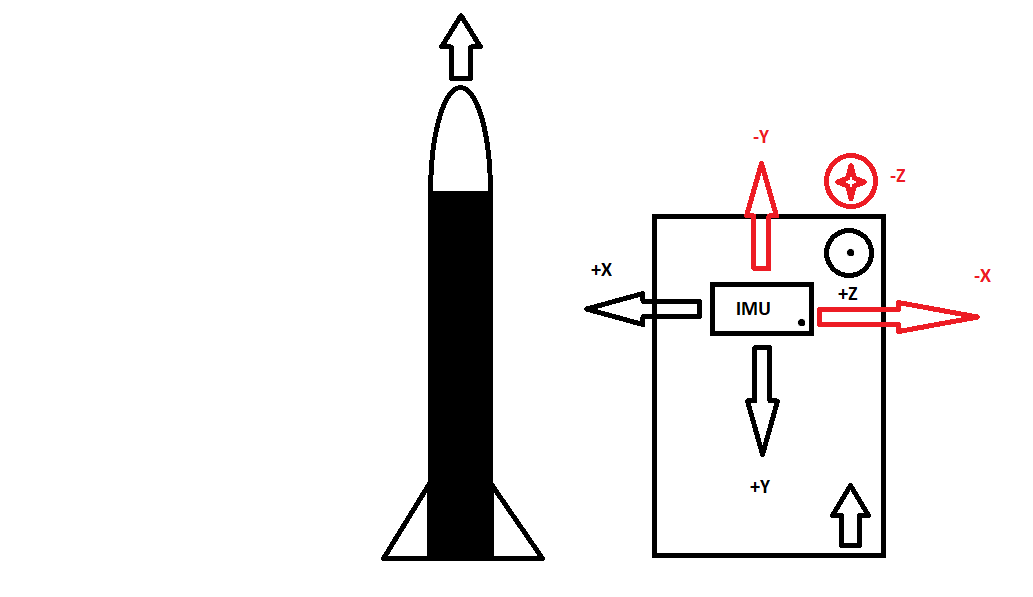
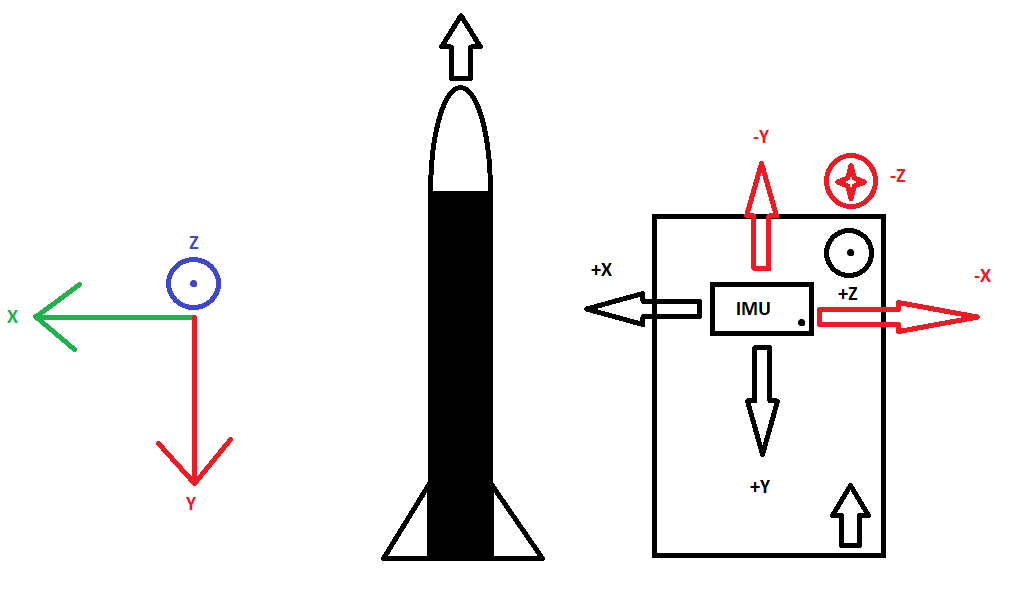
feat: ground abort handler

Changed region(s): [[0.0, 0.4221, 0.2478, 0.8141], [0.062, 0.5729, 0.0929, 0.603]]

diff --git a/Core/Inc/States/StateHandlers.h b/Core/Inc/States/StateHandlers.h
@@ -12,6 +12,7 @@ void ActiveBurnoutStateEntry(SystemContext_t *Context);
 void ApogeeStateEntry(SystemContext_t *Context);
 void ParachuteStateEntry(SystemContext_t *Context);
 void LandedStateEntry(SystemContext_t *Context);
+void GroundAbortStateEntry(SystemContext_t *Context);
 
 SystemState_t IdleStateHandler(SystemContext_t *Context, FlightData_t FlightData);
 SystemState_t CalibrationStateHandler(SystemContext_t *Context, FlightData_t FlightData);
@@ -22,5 +23,6 @@ SystemState_t ActiveBurnoutStateHandler(SystemContext_t *Context, FlightData_t F
 SystemState_t ApogeeStateHandler(SystemContext_t *Context, FlightData_t FlightData);
 SystemState_t ParachuteStateHandler(SystemContext_t *Context, FlightData_t FlightData);
 SystemState_t LandedStateHandler(SystemContext_t *Context, FlightData_t FlightData);
+SystemState_t GroundAbortStateHandler(SystemContext_t *Context, FlightData_t FlightData);
 
 #endif // STATEHANDLERS_H

diff --git a/Core/Src/Managers/StateManager.c b/Core/Src/Managers/StateManager.c
@@ -53,7 +53,8 @@ void OnStateEntry(const SystemState_t CurrentSystemState, SystemContext_t *Syste
             LandedStateEntry(SystemContext);
             break;
         case STATE_GROUND_ABORT:
-        case STATE_ASCENT_ABORT:
+            GroundAbortStateEntry(SystemContext);
+            break;
         case STATE_DESCENT_ABORT:
             PyroSafeAll();
             break;
@@ -151,12 +152,8 @@ SystemState_t HandleState(SystemState_t CurrentSystemState, SystemContext_t *Sys
 		case STATE_LANDED:
 			return LandedStateHandler(SystemContext, SensorData);
 			break;
-			// TODO: Refine
 		case STATE_GROUND_ABORT:
-			return STATE_GROUND_ABORT;
-			break;
-		case STATE_ASCENT_ABORT:
-			return STATE_ASCENT_ABORT;
+			return GroundAbortStateHandler(SystemContext, SensorData);
 			break;
 		case STATE_DESCENT_ABORT:
 			return STATE_DESCENT_ABORT;

diff --git a/Core/Src/States/9LandedStateHandler.c b/Core/Src/States/9LandedStateHandler.c
@@ -1,6 +1,7 @@
 #include "States/StateHandlers.h"
 #include "Utils/Pyro.h"
 #include "Utils/Calculations.h"
+#include "Utils/SD.h"
 #include "stm32h7xx_hal.h"
 
 void LandedStateEntry(SystemContext_t *ctx) {
@@ -10,6 +11,7 @@ void LandedStateEntry(SystemContext_t *ctx) {
 SystemState_t LandedStateHandler(SystemContext_t *Context, FlightData_t FlightData) {
     if (Context->SDLoggingEnabled && GetStateElapsedMs(Context, STATE_LANDED) >= LANDED_SD_STOP_DELAY_MS) {
         Context->SDLoggingEnabled = false;
+        CloseFile();
     }
 
     return STATE_LANDED;

diff --git a/Core/Src/Utils/SD.c b/Core/Src/Utils/SD.c
@@ -65,7 +65,7 @@ FRESULT WriteLoggingBuffer(SDLoggingBuffer_t *Buffer) {
     }
 
     UINT BytesWritten = 0;
-    UINT BytesToWrite = Buffer->Count * sizeof(FlightData_t);
+    UINT BytesToWrite = Buffer->Count * sizeof(SDLogRecord_t);
 
     FRESULT Result = f_write(&SDFile, Buffer->Records, BytesToWrite, &BytesWritten);
     if (Result == FR_OK && BytesWritten != BytesToWrite) {

diff --git a/Core/Src/States/10GroundAbortStateHandler.c b/Core/Src/States/10GroundAbortStateHandler.c
@@ -1,0 +1,13 @@
+#include "States/StateHandlers.h"
+#include "Utils/Pyro.h"
+#include "Utils/SD.h"
+
+void GroundAbortStateEntry(SystemContext_t *Context) {
+    PyroSafeAll();
+    Context->SDLoggingEnabled = false;
+    CloseFile();
+}
+
+SystemState_t GroundAbortStateHandler(SystemContext_t *Context, FlightData_t FlightData) {
+    return STATE_GROUND_ABORT;
+}

diff --git a/Core/Src/States/3PrelaunchStateHandler.c b/Core/Src/States/3PrelaunchStateHandler.c
@@ -10,6 +10,7 @@ void PrelaunchStateEntry(SystemContext_t *ctx) {
 }
 
 SystemState_t PrelaunchStateHandler(SystemContext_t *Context, FlightData_t FlightData) {
+	// TODO: Revise code
 	if (FlightData.AccelY > PRELAUNCH_BURN_ACCEL_Y_THRESHOLD) {
 		BurnConfirmCount++;
 		if (BurnConfirmCount >= PRELAUNCH_BURN_CONSECUTIVE_SAMPLES) {

diff --git a/Core/Src/States/1IdleStateHandler.c b/Core/Src/States/1IdleStateHandler.c
@@ -1,9 +1,11 @@
 #include "States/StateHandlers.h"
 #include "Utils/Calibrations.h"
+#include "Utils/SD.h"
 #include "stm32h7xx_hal.h"
 
 void IdleStateEntry(SystemContext_t *ctx) {
     ResetCalibrationContext(ctx);
+    MountAndOpen();
 }
 
 SystemState_t IdleStateHandler(SystemContext_t *Context, FlightData_t FlightData) {

diff --git a/Core/Src/States/2CalibrationStateHandler.c b/Core/Src/States/2CalibrationStateHandler.c
@@ -18,6 +18,5 @@ SystemState_t CalibrationStateHandler(SystemContext_t *Context, FlightData_t Fli
         return STATE_GROUND_ABORT;
     }
 
-    // Remain on Calibration if not valid command
     return STATE_CALIBRATION;
 }

diff --git a/Core/Inc/Utils/shared.h b/Core/Inc/Utils/shared.h
@@ -30,7 +30,6 @@ typedef enum {
     STATE_LANDED,       	// Landed, turn off except GPS
 
     STATE_GROUND_ABORT,
-    STATE_ASCENT_ABORT,
     STATE_DESCENT_ABORT,
 
     STATE_MAX           // Table size

diff --git a/Core/Src/Tasks/SDLoggingTask.c b/Core/Src/Tasks/SDLoggingTask.c
@@ -58,8 +58,6 @@ void SDProducerTask(void *pvParameters) {
 }
 
 void SDWriterTask(void *pvParameters) {
-    MountAndOpen();
-
     for (;;) {
         xSemaphoreTake(WriteSemaphore, portMAX_DELAY);
 
